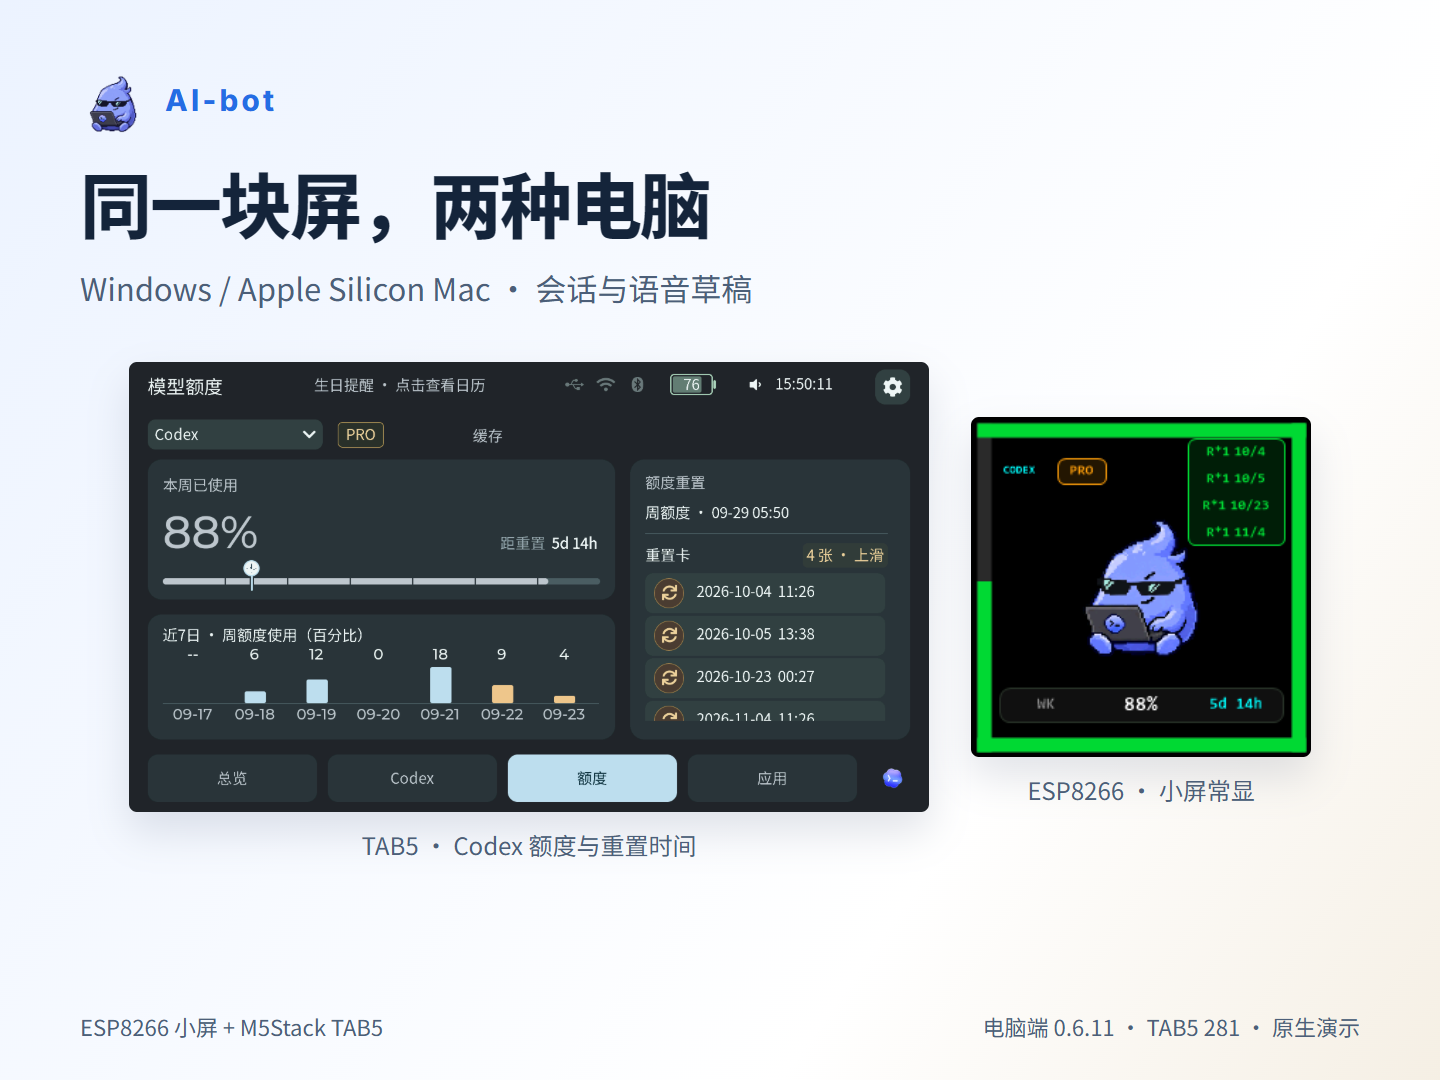
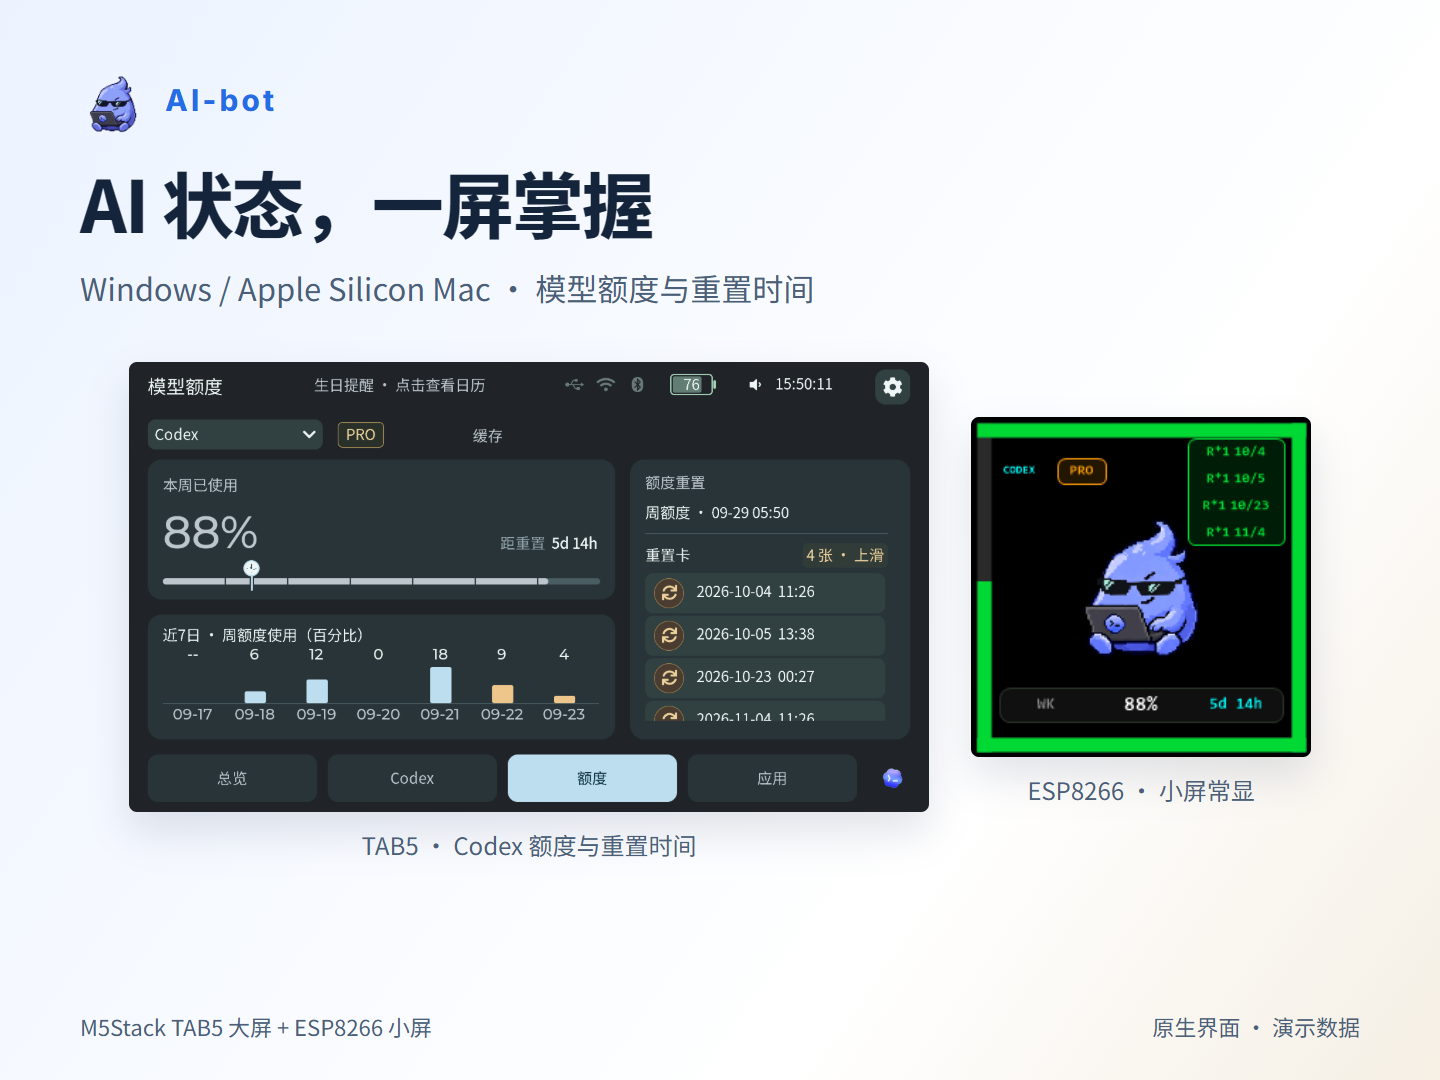
docs: present whole-project video with inline playback

Changed region(s): [[0.0625, 0.1528, 0.5625, 0.3056], [0.6875, 0.9167, 0.9375, 0.9778], [0.0625, 0.9472, 0.3125, 0.9778]]

diff --git a/docs/SCREENSHOTS.md b/docs/SCREENSHOTS.md
@@ -1,5 +1,7 @@
 # 当前截图来源 / Screenshot provenance
 
+2026-10-27 项目介绍片封面展示 TAB5（左）和 ESP8266（右）的原生额度界面，使用演示数据；不是硬件照片。封面及影片素材来源见 [视频说明](PRODUCT_VIDEO.md)，封面摘要登记在 `licenses/materials.json`。 / Project-overview covers show native synthetic quota interfaces; TAB5 is on the left and ESP8266 on the right.
+
 2026-10-27：新增 TAB5 .281 长按清空前、清空后、继续输入与四额度卡片原生 LVGL 截图，来源为冻结 .279 加已核对 .281 补丁及测试；新增 Windows 账号来源隔离原生 WinForms 虚构账户截图。时间、金额、项目名均是固定夹具，不是私人账号或实机照片。Mac 功能使用共用 TAB5 画面说明，不把 Windows 账号窗口标成 Mac。精确 SHA-256 见 materials.json。
 
 October 27: new .281 native LVGL draft-clear and quota fixtures, plus a native Windows account-source fixture. Synthetic data is not hardware photography or private account data. Shared TAB5 views illustrate Mac support without impersonating AppKit windows.
@@ -12,7 +14,7 @@ October 27: new .281 native LVGL draft-clear and quota fixtures, plus a native W
 
 October 17 refresh: native Windows 0.6.8 management/update/status controls and TAB5 210 agenda, centered empty state, classic-clock day/night colors, annual dots and real update notes. These are isolated synthetic fixtures, not hardware photographs. Older installed-version labels, missing battery readings and fixed times are fixture state. Release identity and physical 210 acceptance are recorded separately. Unchanged captures retain their original provenance.
 
-2026-10-16：刷新桥接 0.6.7 原生设备中心、安装／连接窗口；新增 TAB5 205 原生日程、编辑与提醒截图，固件页读取真实 205 sidecar。电脑浏览／全屏来自正式 Windows 发布包对两套最终高清完整包的实际隔离导入，各 366 件；全目录标准分页解码通过，所示米芾《行书虹县诗卷》沿用下述 ColBase TB-1459／CC BY 4.0 署名。图库管理图来自实际完整包导入与公开发布元数据的离线副本；设备、状态和旧安装版本为演示夹具，不调用私人账户，不刷机。未变画面保持原来源。新版 108 秒影片与三种封面另见 [PRODUCT_VIDEO](PRODUCT_VIDEO.md)。精确截图哈希登记在 materials.json。
+2026-10-16：刷新桥接 0.6.7 原生设备中心、安装／连接窗口；新增 TAB5 205 原生日程、编辑与提醒截图，固件页读取真实 205 sidecar。电脑浏览／全屏来自正式 Windows 发布包对两套最终高清完整包的实际隔离导入，各 366 件；全目录标准分页解码通过，所示米芾《行书虹县诗卷》沿用下述 ColBase TB-1459／CC BY 4.0 署名。图库管理图来自实际完整包导入与公开发布元数据的离线副本；设备、状态和旧安装版本为演示夹具，不调用私人账户，不刷机。未变画面保持原来源。当时的 108 秒影片与封面为历史素材；当前影片见 [PRODUCT_VIDEO](PRODUCT_VIDEO.md)。精确截图哈希登记在 materials.json。
 
 2026-10-16 refresh: native bridge 0.6.7 device/install/connection controls; TAB5 205 agenda/editor/reminder and real sidecar captures; actual final HD imports and full-page reads in the release Windows binary. Both categories have 366 works. Mi Fu / ColBase TB-1459 retains CC BY 4.0. Gallery management uses real complete imports and a cached public-release response. Native fixtures are not hardware photography or physical 205 acceptance. Unchanged captures retain earlier provenance. Hashes are individually registered.
 
@@ -75,7 +77,7 @@ dotnet tools/doc-capture/bin/Release/net8.0-windows10.0.19041.0/DocCapture.dll <
 
 此前 `.145` 工程的 `tests/ui-preview/preview.c` 生成 LVGL 原生 PPM；转为 PNG 时保留像素，竖屏图只作 90° 物理方向调整。新图包括 Codex 直达、全年点阵（默认/暗夜/暖灰）、十二月历、名画/书法的横竖排版。额度、任务、日历与语音页面也重新生成。
 
-素材库另用隔离原生测试夹具生成余额、音乐及语音/相机流程；当前 108 秒影片选取其中部分画面，不逐项展示所有功能：实际调用原生按钮处理函数，模拟收音、识别、拍摄确认与附件返回；不调用真实语音服务、不发送消息。相机和专辑封面采用项目原创角色，曲目“桌面之光 · 示例曲目”为虚构数据。本地生成脚本在 `artifacts/product-intro-story-20261007/`，见[视频来源](PRODUCT_VIDEO.md)。
+素材库另用隔离原生测试夹具生成余额、音乐及语音/相机流程；当时的 108 秒影片选取其中部分画面，不逐项展示所有功能：实际调用原生按钮处理函数，模拟收音、识别、拍摄确认与附件返回；不调用真实语音服务、不发送消息。相机和专辑封面采用项目原创角色，曲目“桌面之光 · 示例曲目”为虚构数据。本地生成脚本在 `artifacts/product-intro-story-20261007/`，见[视频来源](PRODUCT_VIDEO.md)。
 
 此前界面图鉴另补充 **26 张 TAB5 原生截图**：总览、应用、任务列表、四个设置分区、桌宠和经典圆盘 9 张在隔离夹具中重新生成，其余 17 张从上述当前影片的原生素材库选用并逐张复核。覆盖天气三种视图、行情、电脑状态、音乐、余额、回复、五种时钟及语音／相机草稿。重新生成批次的 LVGL 界面源码对应 TAB5 commit `02df4f2dbcb1c8535af7f5ffd518ae39f52844c1`；固件版本标签使用 `.145` 演示值，桌宠加载项目原创角色。脚本和捕获日志保存在本地 `artifacts/tab5-feature-guide-20261007/`，不操作设备或运行中的桥接。
 
@@ -114,9 +116,9 @@ dotnet tools/doc-capture/bin/Release/net8.0-windows10.0.19041.0/DocCapture.dll <
 
 Synchronized 2026-10-07 for Windows AI-bot 0.6.1 and TAB5 0.2.149-ui. Only the version-bearing Update Center, Device Center and TAB5 firmware settings frames were refreshed; unchanged screenshots and the existing film are retained with their original capture provenance. Public screenshots are native WinForms/LVGL renders with isolated synthetic data, not hardware photography or new acceptance evidence. The Windows capture tool starts no bridge, serial service, account refresh or authentication browser. Update and collection windows use fixture release/install metadata; they perform no downloads, imports or flashing. Device Center now shows a synthetic `.149` device. Available update versions come from VERSION and versions/TAB5; --release-current replaces the legacy --release060 name, which remains an alias. The native firmware settings frame uses TAB5 source commit 08de19b62e2e36cad0aac6d26b5e21e735ece401 and a .149 fixture label. Reviewed bytes are registered in licenses/materials.json. Future release checks compare visible content before replacing media, preserving unchanged captures and historical acceptance records.
 
-The earlier .145 TAB5 previews cover Codex Direct, Annual Dots in three colors, the floral calendar, landscape/portrait art, quotas, tasks, voice and calendar. Portrait screenshots are rotated to their physical viewing orientation. The 108-second film uses selected captures; it is not an exhaustive feature tour. Separate offline fixtures exercise native voice/camera handlers and simulated results without sending messages or contacting speech services. The original project character supplies sample camera and album artwork. Optional pet designs do not alter installed defaults.
+The earlier .145 TAB5 previews cover Codex Direct, Annual Dots in three colors, the floral calendar, landscape/portrait art, quotas, tasks, voice and calendar. Portrait screenshots are rotated to their physical viewing orientation. The earlier 108-second film used selected captures; it is not an exhaustive feature tour. Separate offline fixtures exercise native voice/camera handlers and simulated results without sending messages or contacting speech services. The original project character supplies sample camera and album artwork. Optional pet designs do not alter installed defaults.
 
-The earlier gallery update added 26 reviewed native TAB5 captures: nine freshly rendered overview/apps/tasks/settings/pet/classic-clock frames and 17 selected from the current film capture library. They cover the ordinary pages and draft workflows as well as highlights. Fresh LVGL captures use source commit `02df4f2dbcb1c8535af7f5ffd518ae39f52844c1`, a synthetic `.145` label and original project pet artwork. The existing ESP8266 mirror frames were also reviewed across all displayed page groups; they are not new physical-device captures. This update changes documentation and reviewed media only.
+The earlier gallery update added 26 reviewed native TAB5 captures: nine freshly rendered overview/apps/tasks/settings/pet/classic-clock frames and 17 selected from the film capture library available at that time. They cover the ordinary pages and draft workflows as well as highlights. Fresh LVGL captures use source commit `02df4f2dbcb1c8535af7f5ffd518ae39f52844c1`, a synthetic `.145` label and original project pet artwork. The existing ESP8266 mirror frames were also reviewed across all displayed page groups; they are not new physical-device captures. This update changes documentation and reviewed media only.
 
 Current art attribution: Lin Liang, *Peacocks and Bamboo*, Cleveland Museum of Art 1964.242, CC0; attributed Wang Xizhi / Tang copy, *Timely Clearing After Snowfall*, National Palace Museum Taipei collection 19, with the published public-domain source record. The Wang Sishi / ColBase TB-6 CC BY 4.0 example belongs to historical exports. Source and license links appear in the table above. Images were resized and laid out for the gallery; portrait native frames were rotated upright. These licenses remain separate from the project's MIT terms, with no museum endorsement.
 

diff --git a/docs/PRODUCT_VIDEO.md b/docs/PRODUCT_VIDEO.md
@@ -1,27 +1,27 @@
 # 产品介绍视频 / Product introduction video
 
-电脑端 **0.6.11**、TAB5 **0.2.281-ui**：64 秒，1920×1080、30 fps。介绍 Windows / Apple Silicon Mac 共用 TAB5、会话与语音草稿、长按清空、额度来源和独立更新。
+这段 121 秒项目介绍先对照 TAB5 和 ESP8266 的共有功能，再展示 TAB5 的触控与独有功能。 / This 121-second project overview compares shared TAB5 and ESP8266 features before presenting TAB5-exclusive interactions.
 
-[![播放或下载新版视频](assets/product-intro/AI-bot-cover.png)](https://github.com/yaoyouzhong/AI-bot/releases/download/v0.6.11/AI-bot-product-intro-20261027-0611-281.mp4)
+https://github.com/user-attachments/assets/a87201d7-8690-4b9a-8cf0-ba8be53e3df1
 
-[打开 / 下载 MP4](https://github.com/yaoyouzhong/AI-bot/releases/download/v0.6.11/AI-bot-product-intro-20261027-0611-281.mp4) · [可复现工程](https://github.com/yaoyouzhong/AI-bot/releases/download/v0.6.11/AI-bot-product-video-source-20261027-0611-281.zip) · [媒体 SHA-256](https://github.com/yaoyouzhong/AI-bot/releases/download/v0.6.11/VIDEO-SHA256SUMS.txt) · [4:3 封面](assets/product-intro/AI-bot-cover-4x3.png) · [3:4 封面](assets/product-intro/AI-bot-cover-3x4.png)
+[独立观看 / Watch separately](https://github.com/yaoyouzhong/AI-bot/issues/8) · [下载 MP4 / Download MP4](https://github.com/user-attachments/assets/a87201d7-8690-4b9a-8cf0-ba8be53e3df1) · [可复现工程 / Reproducible source](https://github.com/yaoyouzhong/AI-bot/releases/download/v0.6.11/AI-bot-project-overview-source-20261027-v3.zip) · [16:9 封面](assets/product-intro/AI-bot-cover.png) · [4:3 封面](assets/product-intro/AI-bot-cover-4x3.png) · [3:4 封面](assets/product-intro/AI-bot-cover-3x4.png)
 
[2 lines of base64/hex data omitted]
+
[1 lines of base64/hex data omitted]
 
 | 时间 | 内容 |
 | --- | --- |
-| 0–9 s | 同一块 TAB5 连接 Windows 或 Mac |
-| 9–20 s | 会话与语音草稿，检查文字后填入 |
-| 20–30 s | 长按清空，短按不误删，保留照片 |
-| 30–39 s | 模型账户、API 与网页额度来源分开 |
-| 39–49 s | 天气、系统监控和音乐 |
-| 49–58 s | 使用实际 .281 更新说明，组件各自更新 |
-| 58–64 s | 产品与平台范围 |
+| 0–7 s | 产品与两种桌面屏幕 |
+| 7–49 s | 两种硬件对照：模型额度、AI 任务、天气、电脑负载、音乐、股票、时钟和桌宠 |
+| 49–56 s | TAB5 总览：最近会话、额度、时间和天气 |
+| 56–86 s | TAB5：Codex 会话与语音草稿、相机附件和电脑控制 |
+| 86–95 s | TAB5：日程列表、事项详情和到点提醒 |
+| 95–115 s | TAB5：点阵／花卉日历与横竖屏欣赏名画、书法 |
+| 115–121 s | 按使用需求选择屏幕 |
 
-截图为生产 Windows 控件和 LVGL 的隔离演示数据，不是实机照片；TAB5 界面两端共用，不冒充 Mac 桌面截图。沿用的小屏封面像素不用于证明 0.5.7 加粗效果；该效果另由用户实机验收。更新窗口中的当前 .21 为演示夹具，目标 .281 为真实 sidecar。
+画面采用隔离的原生界面演示数据与硬件合成图，不是设备实拍，也不展示 Mac 桌面。硬件合成图来源见 [硬件配图记录](HARDWARE-IMAGES.md)。部分 ESP8266 素材沿用旧版截图，不用作新字体效果的证明。 桌宠对比镜头按用户要求，将本机实际 Claude 桌宠合成到隔离原生页面，与 Codex 演示角色区分；Claude 角色来自旧项目第三方素材，另行分发许可未核实，不纳入本项目 MIT 授权。艺术素材和原生截图沿用既有来源记录；字体保留 OFL，工具代码保留 AGPL-3.0，配乐与动作音效为原创合成。详细来源与许可见视频工程的 `SOURCES.md` 和 `THIRD_PARTY_NOTICES.md`。
 
-完整 1,920 帧解码、128 张联系帧、6 处转场、三种封面、字体／图片加载与确定性定位检查通过。配乐与 8 项动作音效为原创合成；沿用工具代码保留 AGPL-3.0，Inter/Noto 字体保留 OFL，完整来源见工程内 SOURCES.md 和许可文件。主观试听未验。本次按 GitHub CLI 发布视频附件与封面入口，不声称已验证浏览器内播放。
+Native UI fixtures contain synthetic data and the opening uses [hardware composites](HARDWARE-IMAGES.md); this is not hardware footage or a Mac desktop recording. Retained ESP8266 imagery does not demonstrate the newer font weight. At the user’s direction, the Claude pet in the comparison is composited from the actual local legacy sprite; it is third-party material with redistribution licensing unverified and is not part of the project MIT grant. Existing art and screen provenance remains applicable. Fonts retain OFL, tool code AGPL-3.0, and music and effects are original synthesis. See the video project's source and third-party notices for details.
 
-The 64-second film covers desktop 0.6.11 and TAB5 .281 with native synthetic fixtures, shared Windows/Mac device UI, voice drafts, hold-to-clear and independent updates. It does not depict a Mac desktop or hardware photography. Retained ESP8266 cover pixels do not demonstrate the new font weight. Full decoding, 128 contact frames, six transitions, three covers and font/image/seek checks passed. The source archive retains provenance, AGPL/OFL notices and original synthesized music/effects. Subjective listening and public browser playback remain unverified; use the MP4 download above.
-
-公开 MP4 已完整下载校验，SHA-256 与上列本地成品一致。源码包独立解压重建的 HTML 摘要一致。 / The complete public MP4 download matches the local SHA-256; the independently extracted source rebuilt identical HTML.
+完整视频解码通过；公开附件完整下载的 SHA-256 与本地一致，支持 HTTP Range。实际主观试听及浏览器播放需分别核验。

diff --git a/docs/RELEASE-CHECKLIST.md b/docs/RELEASE-CHECKLIST.md
@@ -8,7 +8,11 @@
 4. 发布后刷新 `download-catalog.json`，运行 `download_catalog.py sync` 和 `check`，同步中英文主页、完整下载中心及 Release 说明。Windows、Mac、ESP8266、TAB5 和图库按实际附件分别取版本。
 5. 全面复核主页介绍、功能说明、安装手册、安装说明、更新步骤及组件版本页，更新本次变化。保留正确的兼容性下限和历史验收记录。
 6. 刷新相关截图和宣传视频（含封面与可复现工程），以当前实际组件或隔离原生控件录制。检查文字、点击路径、版本及音画；标明演示数据与实拍边界，登记来源、许可及媒体 SHA-256。
+   - 主页宣传片介绍整个项目：共有功能对照两种硬件，TAB5 独有功能单独介绍；画面、文字和设备排列一致，封面不带具体版本号。中英文文案同步，历史更新放入更新日志。
+   - 分别验证主页内实际播放、独立观看入口与 MP4 下载；覆盖播放、暂停、拖动和重播，HTTP 200 不等同播放成功。
 7. 运行公开内容与许可检查、文档链接检查和 `git diff --check`；核验公开主页、安装说明、媒体及实际下载入口。大文件优先比对本地完整哈希、服务器 digest、HEAD 和小 Range；不把抽查称为远端完整下载校验。
 8. 记录正式发布地址、提交、附件摘要、验证和剩余限制。以上项目均有完成证据后交付。
 
 Every release follows this checklist: confirm component/platform scope and authorization; preserve accepted package bytes; validate source, tests, installation and hardware separately; publish verified assets under annotated component tags; refresh bilingual home/download/release pages; reconcile all introductions and installation/update instructions; update relevant screenshots, the product video, covers and reproducible media sources; register licensing and hashes; verify public pages and downloads; then record completion evidence. An unchanged platform retains its existing published version. A successful upload alone does not complete release closeout.
+
+Homepage video covers the whole project: compare shared hardware features, present TAB5-only features separately, match captions and device order, and omit version numbers from covers. Verify actual inline playback, a separate viewing entry and MP4 download; synchronize bilingual copy.

diff --git a/README.en.md b/README.en.md
@@ -53,11 +53,11 @@ AI-bot pairs a computer app with a desktop display. Choose the device that fits 
 
 <sub>Both pictures combine hardware imagery with the AI-bot interface and demo data; they are not hardware photographs or shown to a common physical scale. <a href="docs/HARDWARE-IMAGES.md">Image sources and notes</a></sub>
 
-The new 64-second film covers TAB5 on Windows and Apple Silicon Mac, voice drafts, hold-to-clear, account sources and independent updates using the actual .281 notes. Native fixtures contain synthetic data; they are not hardware photographs.
+This project introduction compares the shared features of TAB5 and the ESP8266 display, then presents TAB5 highlights including overview, conversations, voice drafts, camera attachments, computer controls, agenda and art screensavers. Native interface footage uses demonstration data and composite hardware images, not hardware photography.
 
-[![AI-bot 0.6.11 / TAB5 .281](docs/assets/product-intro/AI-bot-cover.png)](https://github.com/yaoyouzhong/AI-bot/releases/download/v0.6.11/AI-bot-product-intro-20261027-0611-281.mp4)
+https://github.com/user-attachments/assets/a87201d7-8690-4b9a-8cf0-ba8be53e3df1
 
-<sub>64-second Chinese tour. Open or download the MP4. [Download MP4](https://github.com/yaoyouzhong/AI-bot/releases/download/v0.6.11/AI-bot-product-intro-20261027-0611-281.mp4) · [Media credits](docs/PRODUCT_VIDEO.md)</sub>
+[Watch separately](https://github.com/yaoyouzhong/AI-bot/issues/8) · [Download MP4](https://github.com/user-attachments/assets/a87201d7-8690-4b9a-8cf0-ba8be53e3df1) · [Media credits](docs/PRODUCT_VIDEO.md)
 
 ## What it does
 

diff --git a/PROVENANCE.md b/PROVENANCE.md
@@ -210,3 +210,8 @@ Six modified managed-dependency files retain official checksum metadata and
 licenses. SDK/NimBLE patches are pinned to the same toolchain's commits and
 reverse-check against its current local files. The manifest explicitly does not
 claim independent bit-identical rebuilding or a new hardware acceptance round.
+
+
+## Project overview video pet comparison, 2026-10-27
+
+At the user’s explicit direction, the TAB5 pet comparison composes the locally retained Claude legacy sprite into an isolated native page screenshot, alongside the existing Codex design preview. The Claude animation originates from the old project’s third-party commit [`5f52a39`](https://github.com/yaoyouzhong/esp8266-ai/commit/5f52a39bd5c4245aff24bfa3a23cde2d62d57e3c); its separate redistribution license has not been established. It is not part of the project’s MIT grant. The imagery is a composite, not a device photograph or a change to runtime settings.
